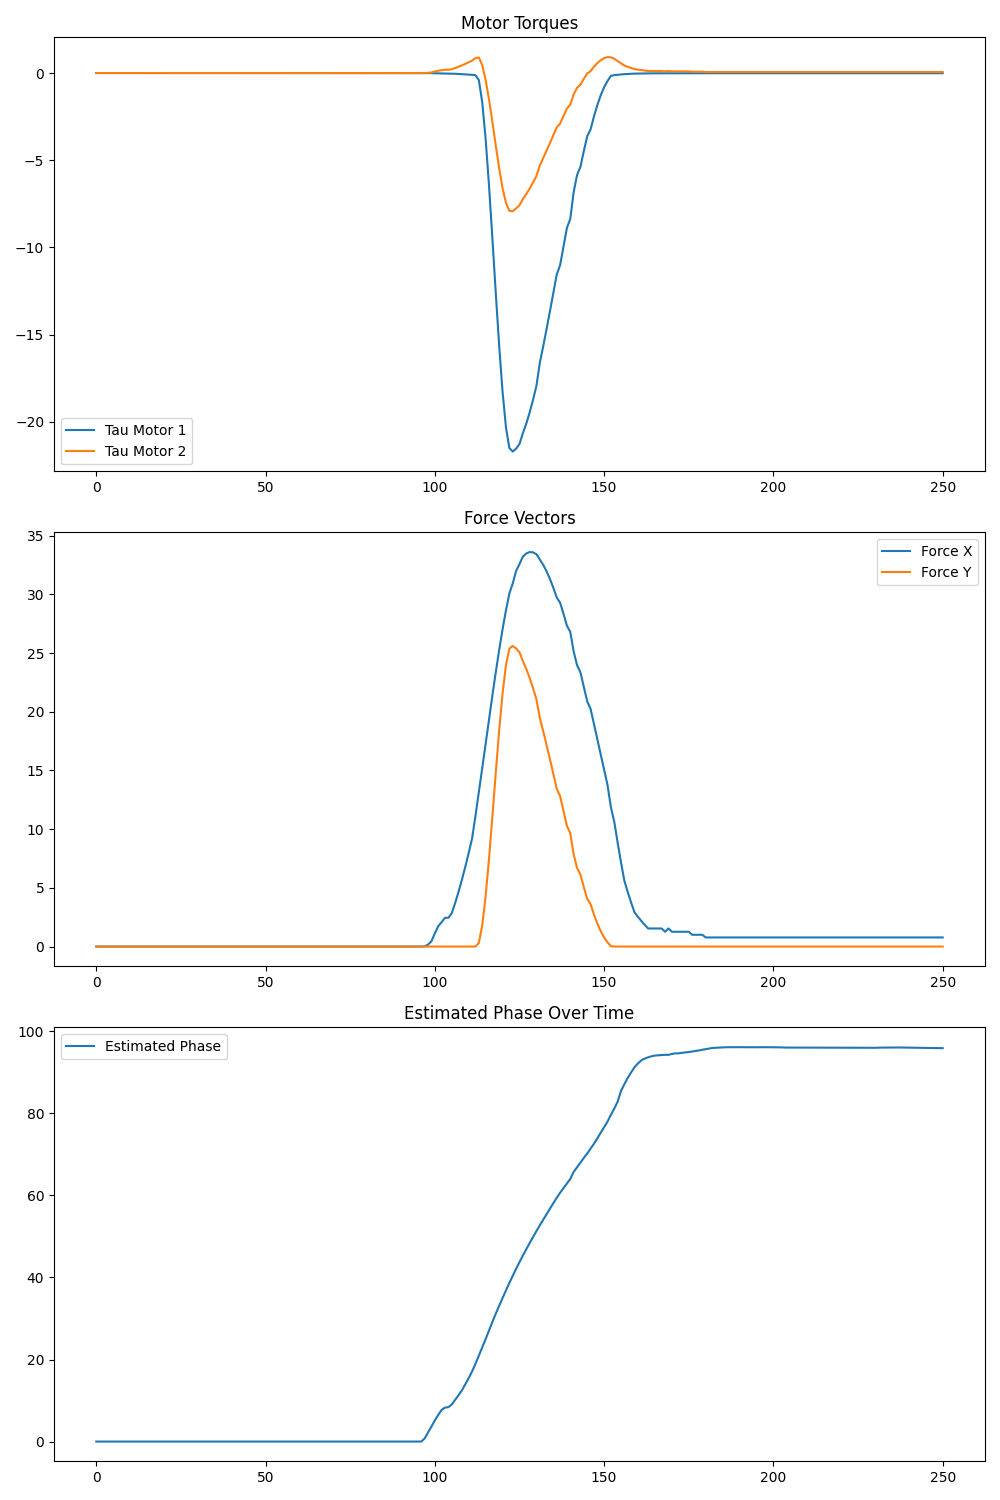
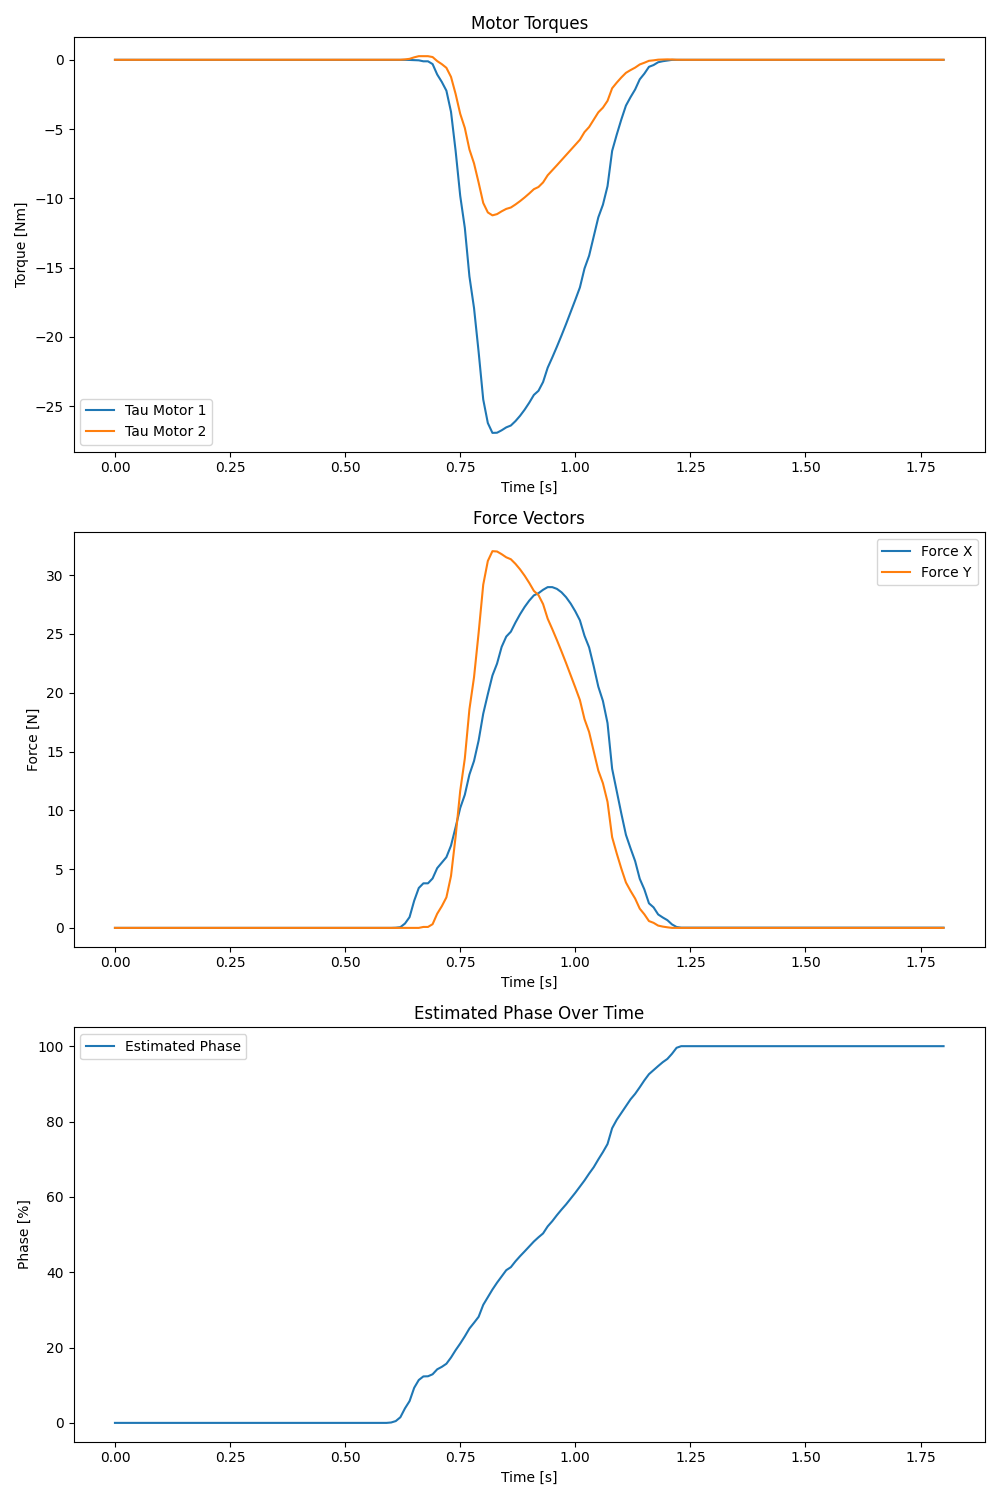
[debug]

diff --git a/sit_to_stand/sts_control.py b/sit_to_stand/sts_control.py
@@ -473,17 +473,16 @@ def apply_simulation_profile(
             from datetime import datetime
             import matplotlib.pyplot as plt
 
-            time_axis = np.arange(len(phase_hist)) / freq
 
-            # Set the base path to your Mac folder — adjust this to your mounted path
-            base_mac_path = "/Users/filippo.mariani/Desktop/Universita/Harvard/Third_Arm_Plots"  # <-- Replace with your actual mount path
+            # Save the file to the remote directory
+            PROJECT_DIR_REMOTE = Path("/Users/filippo.mariani/Desktop/Universita/Harvard/Third_Arm_Plots")
+            session_remote_dir = PROJECT_DIR_REMOTE / f"Subject_{subject_name}"
 
-            # Create the dynamic folder name
-            today_str = datetime.now().strftime("%Y-%m-%d")
-            figures_folder = os.path.join(base_mac_path, f"figures_{today_str}_{subject_name}")
+            # Check remotely if the folder exists; if not, create it
+            check_and_create_cmd = f'ssh macbook "[ -d \\"{session_remote_dir}\\" ] || mkdir -p \\"{session_remote_dir}\\""'
+            os.system(check_and_create_cmd)
 
-            # Create the folder if it doesn't exist
-            os.makedirs(figures_folder, exist_ok=True)
+            time_axis = np.arange(len(phase_hist)) / 100
 
             # Create the figure
             fig, axs = plt.subplots(3, 1, figsize=(10, 15))
@@ -509,10 +508,17 @@ def apply_simulation_profile(
 
             plt.tight_layout()
 
-            # Save plot in the new/existing folder
-            plot_path = os.path.join(figures_folder, "control_loop_plots.png")
-            plt.savefig(plot_path)
-            print(f"Plot saved to: {plot_path}")
+            # Save plot in the new/existing folder with current date and time as the name
+            current_datetime = datetime.now().strftime("%Y-%m-%d_%H-%M-%S")
+            plot_filename = f"control_loop_plots_{current_datetime}.png"
+            plot_path = os.path.join(session_remote_dir, plot_filename)
+
+            plt.savefig("control_loop_plots.png")  # Save locally first
+
+            # Copy the plot to the remote directory changing the name to plot_filename
+            os.system(f"scp control_loop_plots.png macbook:{plot_path}")
+            print(f"Plot saved to remote directory: {plot_path}")
+   
 
         
 
